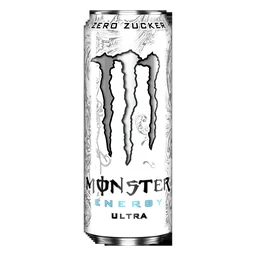
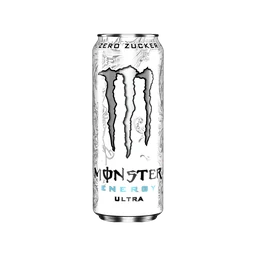
Bestil: produktbilleder, ingen små tekster, valg eller ønske-felt
- tools/udskaer.py: skærer produktbilleder ud (flere side om side)
- Monster mindre i billedet; Sodavand = Pepsi Max + Faxe Kondi
- Ingen undertekster i Bestil-listen
- Varer uden valg: frivilligt 'Dit ønske' (kolonne oenske), vises for admin
- Tests: 20/20

Changed region(s): [[0.3125, 0.0312, 0.6875, 0.9688]]

diff --git a/assets/app.js b/assets/app.js
@@ -372,9 +372,9 @@
       '<span class="note">' + (lukket ? 'Forudbestil, så leveres det, når shoppen åbner.' : 'Personlig levering, forvent lidt ventetid.') + '</span></div>' +
       (S.menu.length ? '<div class="card list compact">' + S.menu.map(function (v) {
         var raad = st.saldo >= v.pris && kanKoebe && !v.snart;
-        if (v.snart) return forslagRaekke(vareBillede(v), v.navn, 'Har du en idé?', 'vare', kanKoebe);
+        if (v.snart) return forslagRaekke(vareBillede(v), v.navn, '', 'vare', kanKoebe);
         return '<div class="row">' + vareBillede(v) +
-          '<div class="row-main"><b>' + esc(v.navn) + '</b>' + (v.varianter.length ? '<small class="variants">' + v.varianter.map(esc).join(' · ') + '</small>' : '') + '</div>' +
+          '<div class="row-main"><b>' + esc(v.navn) + '</b></div>' +
           '<div class="row-price num">' + (v.snart ? '<span class="tag">Kommer snart</span>' : '<span class="amt">' + fmt(v.pris) + '</span><span class="unit">' + enhed(v.pris) + '</span>' + coin()) + '</div>' +
           '<div class="row-acts">' +
           '<button class="btn sm" data-act="giv" data-id="' + esc(v.id) + '"' + (raad && S.kolleger.length ? '' : ' disabled') + '>' + ico('gift') + 'Donér til en kollega</button>' +
@@ -410,7 +410,7 @@
   // "Andet?"-række med én hvid knap, der sender et forslag direkte til admin
   function forslagRaekke(billede, navn, undertekst, type, kan) {
     return '<div class="row forslag-row">' + billede +
-      '<div class="row-main"><b>' + esc(navn) + '</b><small class="variants">' + esc(undertekst) + '</small></div>' +
+      '<div class="row-main"><b>' + esc(navn) + '</b>' + (undertekst ? '<small class="variants">' + esc(undertekst) + '</small>' : '') + '</div>' +
       '<div class="row-acts"><button class="btn" data-act="forslag" data-type="' + type + '"' + (kan ? '' : ' disabled') + '>' + ico('send') + 'Send forslag</button></div></div>';
   }
 
@@ -658,7 +658,7 @@
           var acts = '';
           if (b.status === 'ny') acts = '<button class="btn primary sm" data-act="bstatus" data-id="' + esc(b.id) + '" data-s="udleveret">Udleveret</button><button class="btn danger sm" data-act="bstatus" data-id="' + esc(b.id) + '" data-s="annulleret">Annullér</button>';
           else if (b.status === 'udleveret') acts = '<button class="btn sm" data-act="bstatus" data-id="' + esc(b.id) + '" data-s="ny">Fortryd</button><button class="btn danger sm" data-act="bstatus" data-id="' + esc(b.id) + '" data-s="annulleret">Annullér</button>';
-          return '<tr><td class="faint">' + dato(b.tid) + '</td><td>' + esc(b.fraNavn) + '</td><td>' + (b.til !== b.fra ? '🎁 ' + esc(b.tilNavn) : '<span class="faint">—</span>') + '</td><td><b>' + esc(b.vare) + '</b></td><td class="r num">' + wc(b.pris) + '</td><td>' + statusTag(b) + '</td><td><div class="row-acts">' + acts + '</div></td></tr>';
+          return '<tr><td class="faint">' + dato(b.tid) + '</td><td>' + esc(b.fraNavn) + '</td><td>' + (b.til !== b.fra ? '🎁 ' + esc(b.tilNavn) : '<span class="faint">—</span>') + '</td><td><b>' + esc(b.vare) + '</b>' + (b.oenske ? '<small class="variants">Ønske: ' + esc(b.oenske) + '</small>' : '') + '</td><td class="r num">' + wc(b.pris) + '</td><td>' + statusTag(b) + '</td><td><div class="row-acts">' + acts + '</div></td></tr>';
         }).join('') + '</tbody></table></div>' : '<div class="empty">Ingen bestillinger.</div>') +
       '</section>';
   }
@@ -828,7 +828,7 @@
     openModal('<h2><span class="ico">' + esc(v.ikon || '🛍') + '</span>' + esc(v.navn) + '</h2>' +
       (v.varianter.length > 1 ? '<div class="field"><label>Vælg</label><div class="choices">' + v.varianter.map(function (x) {
         return '<button class="choice' + (k.variant === x ? ' on' : '') + '" data-act="koeb-variant" data-v="' + esc(x) + '">' + esc(x) + '</button>';
-      }).join('') + '</div></div>' : (v.varianter.length === 1 ? '<p class="muted" style="margin:-8px 0 16px">' + esc(v.varianter[0]) + '</p>' : '')) +
+      }).join('') + '</div></div>' : '<div class="field"><label for="koeb-oenske">Dit ønske (valgfrit)</label><input class="input" id="koeb-oenske" maxlength="200" value="' + esc(k.oenske || '') + '" placeholder="' + (v.varianter.length === 1 ? esc(v.varianter[0]) + ', gerne kold' : 'Fx Snickers, tak') + '"></div>') +
       '<div class="seg"><button class="' + (k.gave ? '' : 'on') + '" data-act="koeb-mode" data-g="0">Til mig</button><button class="' + (k.gave ? 'on' : '') + '" data-act="koeb-mode" data-g="1">Donér til en kollega</button></div>' +
       (k.gave ? '<div class="field"><label for="koeb-til">Kollega</label><select class="input" id="koeb-til" data-act="koeb-til"><option value="">Vælg …</option>' + kollegaer + '</select></div>' : '') +
       '<div class="sum"><span class="muted">Pris</span><b class="num">' + wc(v.pris) + '</b></div>' +
@@ -963,7 +963,7 @@
 
       case 'koeb': openKoeb(t.dataset.id, false); break;
       case 'giv': openKoeb(t.dataset.id, true); break;
-      case 'koeb-mode': koebState.gave = t.dataset.g === '1'; renderKoeb(); break;
+      case 'koeb-mode': koebState.oenske = val('koeb-oenske'); koebState.gave = t.dataset.g === '1'; renderKoeb(); break;
       case 'koeb-variant': koebState.variant = t.dataset.v; renderKoeb(); break;
       case 'koeb-drej':
         busy(t, true);
@@ -994,7 +994,7 @@
       case 'koeb-ok': {
         var k = koebState;
         var forud = S.shop && !S.shop.aaben;
-        submit(t, 'bestil', { vareId: k.vare.id, variant: k.variant, til: k.gave ? k.til : '' },
+        submit(t, 'bestil', { vareId: k.vare.id, variant: k.variant, oenske: val('koeb-oenske'), til: k.gave ? k.til : '' },
           forud ? (k.gave ? 'Din donation er forudbestilt 🎁' : k.vare.navn + ' er forudbestilt') : (k.gave ? 'Din donation er sendt 🎁' : k.vare.navn + ' er bestilt'),
           forud ? 'Den leveres, når shoppen åbner.' : 'Personlig levering, forvent lidt ventetid.');
         break;
@@ -1064,7 +1064,7 @@
 
   document.addEventListener('change', function (ev) {
     var t = ev.target;
-    if (t.dataset.act === 'koeb-til') { koebState.til = t.value; renderKoeb(); }
+    if (t.dataset.act === 'koeb-til') { koebState.oenske = val('koeb-oenske'); koebState.til = t.value; renderKoeb(); }
     if (t.dataset.act === 'pperson') { ui.postPerson = t.value; render(); }
   });
 

diff --git a/shared/core.js b/shared/core.js
@@ -21,7 +21,7 @@ var Core = (function () {
     Hjul: ['id', 'navn', 'ikon', 'type', 'beloeb', 'kostpris', 'vaegt', 'aktiv'],
     Projekter: ['id', 'navn', 'ikon', 'maal', 'aaben'],
     Posteringer: ['id', 'tid', 'initialer', 'type', 'beloeb', 'tekst', 'ref'],
-    Bestillinger: ['id', 'tid', 'fra', 'til', 'vare', 'pris', 'kostpris', 'status', 'forud'],
+    Bestillinger: ['id', 'tid', 'fra', 'til', 'vare', 'pris', 'kostpris', 'status', 'forud', 'oenske'],
     Kilder: ['kilde', 'navn', 'sheet_id', 'fane', 'kol_initialer', 'kol_vaerdi', 'kol_dato', 'start_raekke'],
     Regler: ['gruppe', 'kilde', 'sats', 'tekst']
   };
@@ -243,7 +243,7 @@ var Core = (function () {
         return { id: str(p.id), tid: str(p.tid), type: str(p.type), beloeb: num(p.beloeb), tekst: str(p.tekst), maaned: postMaaned(p) };
       }),
       bestillinger: bestillinger.map(function (b) {
-        return { id: str(b.id), tid: str(b.tid), fra: str(b.fra), fraNavn: navne[b.fra] || b.fra, til: str(b.til), tilNavn: navne[b.til] || b.til, vare: str(b.vare), pris: num(b.pris), status: str(b.status), forud: str(b.forud) === 'ja' };
+        return { id: str(b.id), tid: str(b.tid), fra: str(b.fra), fraNavn: navne[b.fra] || b.fra, til: str(b.til), tilNavn: navne[b.til] || b.til, vare: str(b.vare), pris: num(b.pris), status: str(b.status), forud: str(b.forud) === 'ja', oenske: str(b.oenske) };
       }),
       regler: regler(db),
       grupper: GRUPPER,
@@ -274,6 +274,8 @@ var Core = (function () {
       if (valg.indexOf(variant) < 0) throw err('BAD', 'Vælg en variant.');
     }
     var vareNavn = variant && variant !== str(vare.navn) ? str(vare.navn) + ' · ' + variant : str(vare.navn);
+    // Varer uden valg har et frivilligt ønske-felt (fx "Kold, tak" eller "Gerne en med karamel")
+    var oenske = valg.length > 1 ? '' : str(data.oenske).trim().slice(0, 200);
     // Lukket shop = forudbestilling. Den leveres, når shoppen åbner igen.
     var shop = env.shop ? env.shop() : { aaben: true };
     var forud = !shop.aaben;
@@ -292,7 +294,7 @@ var Core = (function () {
 
     var id = env.uuid();
     var tid = env.now().toISOString();
-    db.insert('Bestillinger', { id: id, tid: tid, fra: me.initialer, til: modtager.initialer, vare: vareNavn, pris: pris, kostpris: num(vare.kostpris), status: 'ny', forud: forud ? 'ja' : '' });
+    db.insert('Bestillinger', { id: id, tid: tid, fra: me.initialer, til: modtager.initialer, vare: vareNavn, pris: pris, kostpris: num(vare.kostpris), status: 'ny', forud: forud ? 'ja' : '', oenske: oenske });
     db.insert('Posteringer', {
       id: env.uuid(), tid: tid, initialer: me.initialer, type: gave ? 'gave' : 'koeb', beloeb: -pris,
       tekst: gave ? vareNavn + ' til ' + modtager.navn : vareNavn, ref: id
@@ -307,7 +309,7 @@ var Core = (function () {
       emne: (forud ? 'Forudbestilling · ' : '') + (gave ? 'Gave: ' + vareNavn + ' til ' + modtager.navn : 'Bestilling: ' + vareNavn + ' til ' + me.navn),
       tekst: (gave
         ? me.navn + ' (' + me.initialer + ') giver ' + str(vare.ikon) + ' ' + vareNavn + ' til ' + modtager.navn + ' (' + modtager.initialer + ').'
-        : me.navn + ' (' + me.initialer + ') har ' + (forud ? 'forudbestilt ' : 'bestilt ') + str(vare.ikon) + ' ' + vareNavn + '.') + ' Pris: ' + pris + ' Webcoins.'
+        : me.navn + ' (' + me.initialer + ') har ' + (forud ? 'forudbestilt ' : 'bestilt ') + str(vare.ikon) + ' ' + vareNavn + '.') + ' Pris: ' + pris + ' Webcoins.' + (oenske ? ' Ønske: ' + oenske : '')
     });
     return { id: id, forud: forud };
   }
@@ -487,7 +489,7 @@ var Core = (function () {
         return { email: str(u.email).toLowerCase(), initialer: i, navn: str(u.navn), gruppe: str(u.gruppe), aktiv: sand(u.aktiv), saldo: st.saldo, optjentMaaned: st.optjentMaaned, optjentTotal: st.optjentTotal, brugt: st.brugt };
       }).sort(function (a, b) { return a.navn.localeCompare(b.navn, 'da'); }),
       bestillinger: db.all('Bestillinger').slice().sort(nyesteFoerst).map(function (b) {
-        return { id: str(b.id), tid: str(b.tid), fra: str(b.fra), fraNavn: navne[b.fra] || b.fra, til: str(b.til), tilNavn: navne[b.til] || b.til, vare: str(b.vare), pris: num(b.pris), kostpris: num(b.kostpris), status: str(b.status), forud: str(b.forud) === 'ja' };
+        return { id: str(b.id), tid: str(b.tid), fra: str(b.fra), fraNavn: navne[b.fra] || b.fra, til: str(b.til), tilNavn: navne[b.til] || b.til, vare: str(b.vare), pris: num(b.pris), kostpris: num(b.kostpris), status: str(b.status), forud: str(b.forud) === 'ja', oenske: str(b.oenske) };
       }),
       opgoerelse: opgoerelse(db),
       posteringer: poster.slice().sort(nyesteFoerst).slice(0, 2000).map(function (p) {

diff --git a/assets/mock.js b/assets/mock.js
@@ -1,6 +1,6 @@
 // Demo-backend: kører shared/core.js mod data i localStorage. Bruges kun når API_URL er tom.
 window.Mock = (function () {
-  var KEY = 'webshoppen-demo-v17';
+  var KEY = 'webshoppen-demo-v18';
   var ADMINS = ['demo.admin@best-one.dk'];
 
   var BRUGERE = [
@@ -19,7 +19,7 @@ window.Mock = (function () {
       Stemmer: [],
       Spil: [],
       Menu: [
-        { id: 'sodavand', navn: 'Sodavand', ikon: '🥤', pris: 10, kostpris: 8, varianter: 'Pepsi Max, Faxe Kondi, Faxe Kondi 0 kalorier, Danskvand', aktiv: 'ja' },
+        { id: 'sodavand', navn: 'Sodavand', ikon: '🥤', billede: 'assets/varer/sodavand.webp', pris: 10, kostpris: 8, varianter: 'Pepsi Max, Faxe Kondi, Faxe Kondi 0 kalorier, Danskvand', aktiv: 'ja' },
         { id: 'monster', navn: 'Monster', ikon: '⚡', billede: 'assets/varer/monster.webp', pris: 20, kostpris: 15, varianter: 'Hvid Monster', aktiv: 'ja' },
         { id: 'candybar', navn: 'Candybar', ikon: '🍫', pris: 8, kostpris: 6, varianter: 'Marsbar, Snickers', aktiv: 'ja' },
         { id: 'andet', navn: 'Andet?', ikon: '💡', pris: 0, kostpris: 0, snart: 'ja', aktiv: 'ja' }

diff --git a/index.html b/index.html
@@ -9,7 +9,7 @@
   <link rel="preconnect" href="https://fonts.googleapis.com">
   <link rel="preconnect" href="https://fonts.gstatic.com" crossorigin>
   <link href="https://fonts.googleapis.com/css2?family=Montserrat:wght@400;500;600;700;800;900&display=swap" rel="stylesheet">
-  <link rel="stylesheet" href="assets/app.css?v=57">
+  <link rel="stylesheet" href="assets/app.css?v=58">
   <script>
     try { var t = localStorage.getItem('webshoppen-tema'); if (t) document.documentElement.setAttribute('data-theme', t); } catch (e) {}
   </script>
@@ -19,9 +19,9 @@
   <div id="modal-root"></div>
   <div id="toasts" aria-live="polite"></div>
 
-  <script src="assets/config.js?v=57"></script>
-  <script src="shared/core.js?v=57"></script>
-  <script src="assets/mock.js?v=57"></script>
-  <script src="assets/app.js?v=57"></script>
+  <script src="assets/config.js?v=58"></script>
+  <script src="shared/core.js?v=58"></script>
+  <script src="assets/mock.js?v=58"></script>
+  <script src="assets/app.js?v=58"></script>
 </body>
 </html>

diff --git a/tests/core.test.js b/tests/core.test.js
@@ -63,6 +63,12 @@ t('én variant vælges automatisk', function () {
   Core.handle(db, A, 'bestil', { vareId: 'mon' }, env);
   eq(data.Bestillinger[1].vare, 'Monster · Hvid Monster');
 });
+t('ønske gemmes kun på varer uden valg', function () {
+  Core.handle(db, A, 'bestil', { vareId: 'mon', oenske: 'Gerne kold' }, env);
+  eq(data.Bestillinger[data.Bestillinger.length - 1].oenske, 'Gerne kold');
+  Core.handle(db, A, 'bestil', { vareId: 'soda', variant: 'Danskvand', oenske: 'ignoreres' }, env);
+  eq(data.Bestillinger[data.Bestillinger.length - 1].oenske, '');
+});
 t('kommer snart kan ikke bestilles', function () {
   kaster(function () { Core.handle(db, A, 'bestil', { vareId: 'andet' }, env); }, 'snart');
 });

diff --git a/tools/udskaer.py b/tools/udskaer.py
@@ -1,0 +1,89 @@
+#!/usr/bin/env python3
+"""
+Skærer produktbilleder ud til Bestil-listen (kræver Pillow).
+
+Fjerner hvid/lys baggrund (flood fill fra kanten, så hvide dåser ikke forsvinder),
+beskærer til selve produktet og lægger det centreret på et kvadratisk, gennemsigtigt
+lærred med luft omkring.
+
+Ét produkt:
+    python3 tools/udskaer.py ud.webp kilde.jpg
+Flere produkter side om side (fx sodavand):
+    python3 tools/udskaer.py ud.webp kilde1.webp kilde2.webp
+
+Valg:
+    --luft 1.35   hvor meget luft rundt om (1.0 = produktet fylder hele billedet)
+    --str 256     størrelse i pixels (kvadratisk)
+"""
+import argparse
+from collections import deque
+from PIL import Image, ImageFilter, ImageOps
+
+
+def udskaer(sti, taerskel=232):
+    im = ImageOps.expand(Image.open(sti).convert('RGBA'), border=12, fill=(255, 255, 255, 255))
+    w, h = im.size
+    px = im.load()
+    maske = Image.new('L', (w, h), 255)
+    mp = maske.load()
+    set_ = bytearray(w * h)
+    q = deque([(0, 0)])
+    while q:
+        x, y = q.popleft()
+        i = y * w + x
+        if set_[i]:
+            continue
+        set_[i] = 1
+        p = px[x, y]
+        if not (p[0] > taerskel and p[1] > taerskel and p[2] > taerskel and p[3] > 0) and p[3] != 0:
+            continue
+        mp[x, y] = 0
+        if x > 0: q.append((x - 1, y))
+        if x < w - 1: q.append((x + 1, y))
+        if y > 0: q.append((x, y - 1))
+        if y < h - 1: q.append((x, y + 1))
+    # Beskær til selve produktet (fjerner tynde streger i billedkanten)
+    kol = [x for x in range(w) if sum(1 for y in range(0, h, 2) if mp[x, y] > 0) > 0.3 * (h / 2)]
+    rk = [y for y in range(h) if sum(1 for x in range(0, w, 2) if mp[x, y] > 0) > 0.15 * (w / 2)]
+    x0, x1, y0, y1 = kol[0], kol[-1] + 1, rk[0], rk[-1] + 1
+    for x in range(w):
+        for y in range(h):
+            if x < x0 or x >= x1 or y < y0 or y >= y1:
+                mp[x, y] = 0
+    maske = maske.filter(ImageFilter.GaussianBlur(1.2))
+    im.putalpha(maske)
+    return im.crop((x0 - 3, y0 - 3, x1 + 3, y1 + 3))
+
+
+def saml(billeder, overlap=0.12):
+    # Samme højde, side om side med lidt overlap
+    hoejde = max(b.size[1] for b in billeder)
+    skal = [b.resize((round(b.size[0] * hoejde / b.size[1]), hoejde), Image.LANCZOS) for b in billeder]
+    bredde = sum(b.size[0] for b in skal) - int(overlap * skal[0].size[0]) * (len(skal) - 1)
+    ud = Image.new('RGBA', (bredde, hoejde), (0, 0, 0, 0))
+    x = 0
+    for b in skal:
+        ud.paste(b, (x, 0), b)
+        x += b.size[0] - int(overlap * b.size[0])
+    return ud
+
+
+def main():
+    a = argparse.ArgumentParser()
+    a.add_argument('ud')
+    a.add_argument('kilder', nargs='+')
+    a.add_argument('--luft', type=float, default=1.35)
+    a.add_argument('--str', type=int, default=256)
+    v = a.parse_args()
+    dele = [udskaer(k) for k in v.kilder]
+    prod = dele[0] if len(dele) == 1 else saml(dele)
+    cw, ch = prod.size
+    side = int(max(cw, ch) * v.luft)
+    laerred = Image.new('RGBA', (side, side), (0, 0, 0, 0))
+    laerred.paste(prod, ((side - cw) // 2, (side - ch) // 2), prod)
+    laerred.resize((v.str, v.str), Image.LANCZOS).save(v.ud, 'WEBP', quality=88, method=6)
+    print('Gemt', v.ud)
+
+
+if __name__ == '__main__':
+    main()

diff --git a/NOTES.md b/NOTES.md
@@ -1,7 +1,7 @@
 # NOTES – status og næste skridt
 
 Opdateres ved hver arbejdsblok, så arbejdet kan fortsættes fra en anden maskine.
-Sidst opdateret: **2026-11-09** (privat Mac). Seneste kodegennemgang: 2026-11-09 (aften) – alle filer parser, `tests/core.test.js` 19/19 OK, alle sider klikket igennem som ren admin og som medarbejder uden konsolfejl, ingen rigtige navne/numre i sporede filer.
+Sidst opdateret: **2026-11-09** (privat Mac). Seneste kodegennemgang: 2026-11-09 (aften) – alle filer parser, `tests/core.test.js` 20/20 OK, alle sider klikket igennem som ren admin og som medarbejder uden konsolfejl, ingen rigtige navne/numre i sporede filer.
 
 ## Status
 
@@ -10,7 +10,7 @@ Alt kører i **demo-tilstand** (tom `API_URL`) på https://munksgaard91.github.i
 ### Medarbejder – Overblik (`#/`)
 Rækkefølge (se også CLAUDE.md):
 1. **Saldo-kort** (blåt, halvskjult "b" i højre side) med hilsen, saldo og "Hvordan optjener jeg?" + i-ikon i hjørnet: hover viser en lille boble, klik åbner en boks med gruppens optjeningsregler. Ved siden af **Teambudget**: rest i alt som stort tal, "Brugt i sæsonen: kr x" i mild rød, sæson som tag (`TEAMBUDGET_SAESON`).
-2. **Bestil** – kompakt liste med skiftevis hvid/lysegrå rækker. Priser er højrestillede tal (1–3 cifre flugter) + "Webcoins" + mønt til sidst. Knapper: **Donér til en kollega** (gave – hed før "Giv") og Bestil. Note: "Personlig levering, forvent lidt ventetid." Knapkolonnen er 280px i både Bestil og Projekter, så de flugter. Varer med `varianter` åbner et valg (Sodavand, Candybar); én variant vælges automatisk (Monster → Hvid Monster). `snart = ja` → rækken bliver en **"Andet?"-række** med én hvid knap "Send forslag" (kan ikke bestilles). Note om ventetid (personlig levering).
+2. **Bestil** – kompakt liste med skiftevis hvid/lysegrå rækker, **ingen små undertekster** under navnene (heller ikke ved "Andet?"). I bestillingsvinduet: varer med flere valg viser valgknapper; varer uden valg (eller kun ét, fx Monster) viser et frivilligt **"Dit ønske"**-felt, som gemmes i Bestillinger-kolonnen `oenske`, står i admins besked og under varen på Admin → Bestillinger. Priser er højrestillede tal (1–3 cifre flugter) + "Webcoins" + mønt til sidst. Knapper: **Donér til en kollega** (gave – hed før "Giv") og Bestil. Note: "Personlig levering, forvent lidt ventetid." Knapkolonnen er 280px i både Bestil og Projekter, så de flugter. Varer med `varianter` åbner et valg (Sodavand, Candybar); én variant vælges automatisk (Monster → Hvid Monster). `snart = ja` → rækken bliver en **"Andet?"-række** med én hvid knap "Send forslag" (kan ikke bestilles). Note om ventetid (personlig levering).
 3. **Feelin' Lucky?** – lykkehjul i **to trin**: "Køb et drej" (betaler `HJUL_PRIS`, prisen står som i Bestil: tal + Webcoins + mønt) → "Drej hjulet" låses op (hængelås-ikon) → drej → låst igen. Man kan højst have ét købt drej ad gangen. Købte drej ligger i ny fane `Spil` (id, tid, initialer, status koebt/drejet, resultat). Gevinsten afgøres i backend; browseren animerer kun hjulet hen til resultatet. **Hvert drej registreres** (fanen `Spil`: status `drejet` + resultat), og **admin får altid besked** (mail/Chat) med "via lykkehjulet (Feelin' Lucky?)" – også ved Webcoins og ingen gevinst. Vare-gevinster kommer på Admin → Bestillinger som "Hjulgevinst: <vare>" med beskeden "Spørg om de vil have den med det samme".
 4. **Projekter** – liste med skiftevis baggrund. Stor progressbar med "**245** af 1.500 Webcoins 🪙" og fed procent. Top 3 under hinanden med beløb tæt på navnet. Når et projekt er **100 %**, forsvinder Donér, og der står en **"Yehaw! 🎉"**-knap, der sender konfetti over skærmen (blå/hvid/grå, ren CSS, kun en kort toast ved "Reducer bevægelse"). Backend afviser donationer til fulde projekter og beløb over det, der mangler. Ellers en stor blå **Donér**-knap (min. 150px bred, 16px tekst; handlingen hedder `indskyd` i koden), "Dit bidrag" småt under knappen.
    Under projekterne er der også en "Andet?"-række med "Send forslag". Forslag sendes via backend (`forslag` i core.js → `env.notify` → `NOTIFIKATION_MAIL` + evt. Google Chat) – ikke via mailto, så det virker uanset mailprogram.
@@ -39,7 +39,7 @@ Den rigtige brugerliste ligger i **`brugere.local.csv`** i repo-mappen på den p
 - Kilder (faktureringsark, anmeldelser) og teambudget-arket er ikke koblet på.
 - Subdomæne ikke valgt (`xxx.leksione.dk`); `SIDE_URL` står som `webshoppen.leksione.dk`. Ingen `CNAME`-fil endnu.
 - Projekter tæller ikke med i Opgørelse (kun bestillinger/gevinster).
-- Varebilleder: **Monster** har billede (`assets/varer/monster.webp`, skåret ud fra Rasmus' billede, 256×256 WebP med gennemsigtig baggrund). Mangler: Sodavand, Candybar og baggrundsbilleder. Nye billeder: skær ud med Pillow (flood fill fra kanten, beskær til selve produktet, kvadratisk 256px) og sæt stien i Menu-kolonnen `billede`.
+- Varebilleder i `assets/varer/`: **Monster** (`monster.webp`) og **Sodavand** (`sodavand.webp`, Pepsi Max + Faxe Kondi side om side). Mangler: Candybar og baggrundsbilleder. Nye billeder laves med **`tools/udskaer.py`** (Pillow): `python3 tools/udskaer.py assets/varer/x.webp kilde.jpg [kilde2 …] --luft 1.35` – fjerner hvid baggrund, beskærer, kvadratisk 256px med luft omkring. Sæt stien i Menu-kolonnen `billede`.
 - Rigtigt Google-login er ikke testet (kræver backend + Client ID).
 
 ## Beslutninger
@@ -55,7 +55,7 @@ Den rigtige brugerliste ligger i **`brugere.local.csv`** i repo-mappen på den p
 - **Repoet er offentligt** (gratis GitHub Pages) – kun frontend, ingen hemmeligheder.
 
 ## Faner i "Webshoppen DB"
-`Config` · `Brugere` · `Menu` (id, navn, ikon, billede, pris, kostpris, varianter, snart, aktiv) · `Hjul` (id, navn, ikon, type vare/webcoins/intet, beloeb, kostpris, vaegt, aktiv) · `Projekter` · `Posteringer` · `Bestillinger` (… status, forud) · `Stemmer` (id, tid, maaned, fra, til, begrundelse) · `Spil` (id, tid, initialer, status, resultat) · `Kilder` · `Regler`.
+`Config` · `Brugere` · `Menu` (id, navn, ikon, billede, pris, kostpris, varianter, snart, aktiv) · `Hjul` (id, navn, ikon, type vare/webcoins/intet, beloeb, kostpris, vaegt, aktiv) · `Projekter` · `Posteringer` · `Bestillinger` (… status, forud, oenske) · `Stemmer` (id, tid, maaned, fra, til, begrundelse) · `Spil` (id, tid, initialer, status, resultat) · `Kilder` · `Regler`.
 
 Config-nøgler: `CLIENT_ID`, `ADMIN_EMAILS`, `TILLADT_DOMAENE`, `SIDE_URL`, `CHAT_WEBHOOK`, `NOTIFIKATION_MAIL`, `AABNER`, `LUKKER`, `AABNE_DAGE`, `LUK_VED_FRAVAER`, `KALENDER_ID`, `OPTJENING_FRA`, `TEAMBUDGET_ARK_ID`, `TEAMBUDGET_BUDGET_CELLE`, `TEAMBUDGET_BRUGT_CELLE`, `TEAMBUDGET_SAESON`, `HJUL_PRIS`, `MDK_PRAEMIE`.
 
@@ -69,7 +69,7 @@ Config-nøgler: `CLIENT_ID`, `ADMIN_EMAILS`, `TILLADT_DOMAENE`, `SIDE_URL`, `CHA
 7. **Webshoppen → Slå automatisk hentning til**.
 
 Ændringer i `shared/core.js` eller `Code.gs`: kopiér ind i Apps Script → **Administrer implementeringer → Rediger → Ny version** (URL bevares).
-Ændringer i assets: bump `?v=` i `index.html` (nu `v=57`).
+Ændringer i assets: bump `?v=` i `index.html` (nu `v=58`).
 Er arket allerede sat op, laver "Opsæt faner" kun nye faner – nye kolonner skal tilføjes sidst i hånden (tekstformat for `id`, `tid`, `maaned`, initialer).
 
 ## Test
@@ -88,7 +88,7 @@ Demo-tricks: `?lukket=fravaer` / `?lukket=tid` viser lukket shop. "Nulstil demod
 
 ## Næste skridt
 1. Rasmus' feedback på Min profil v3 og den nye menu.
-2. Varebilleder til Sodavand og Candybar + baggrundsbilleder (Monster er lavet).
+2. Billede til Candybar + baggrundsbilleder (Monster og Sodavand er lavet).
 3. Vælg subdomæne → `CNAME`-fil + CNAME hos Curanet → `munksgaard91.github.io`.
 4. Sæt backend op (tjekliste ovenfor) og kobl faktureringsark, anmeldelser og teambudget på.
 5. Regn økonomien igennem: optjening pr. gruppe vs. varepriser vs. lykkehjulets forventede værdi.

diff --git a/CLAUDE.md b/CLAUDE.md
@@ -37,6 +37,8 @@ Google Apps Script web app (apps-script/Code.gs + shared/core.js som "Core.gs")
 | `assets/mock.js` | Demo-backend i browseren (localStorage), bruger `shared/core.js` |
 | `shared/core.js` | **Al forretningslogik**, delt mellem demo og Apps Script. Ingen Google-API'er her |
 | `apps-script/Code.gs` | Sheet-adapter, auth, doPost, synk, notifikationer, kalenderfravær, opsætning af arket |
+| `tools/udskaer.py` | Skærer produktbilleder ud til Bestil-listen (Pillow) – se NOTES.md |
+| `assets/varer/` | Produktbilleder (256×256 WebP, gennemsigtig baggrund) |
 | `tests/core.test.js` | Logiktest af core.js – køres med macOS' indbyggede `jsc` (se NOTES.md → Test) |
 | `CNAME` | Custom domæne til GitHub Pages (oprettes når subdomænet er valgt) |
 
@@ -61,6 +63,7 @@ Google Apps Script web app (apps-script/Code.gs + shared/core.js som "Core.gs")
 ### Faste tekster og farver (aftalt med Rasmus)
 - Gave til kollega hedder **"Donér til en kollega"** (knap og dialog); bekræftelse "Din donation er sendt 🎁". Projekter bruger knappen **"Donér"**.
 - Ventetid: **"Personlig levering, forvent lidt ventetid."**
+- Bestil-listen har **ingen små undertekster** under varenavne. Valg vises først i bestillingsvinduet; varer uden valg får et frivilligt "Dit ønske"-felt.
 - "Andet?"-rækker (menu: "Har du en idé?", projekter: "Har du en idé til et projekt?") har én hvid knap **"Send forslag"**. Forslag sendes via backend (`forslag` → `env.notify` → `NOTIFIKATION_MAIL`/Chat), ikke mailto.
 - Saldo-kortet: **"Hvordan optjener jeg?"** + i-ikon; klik åbner en boks med gruppens regler, hover viser en boble.
 - Teambudget: rest i alt som stort tal; "Brugt i sæsonen" står i **mild rød** (`.tb-sub .brugt`).
